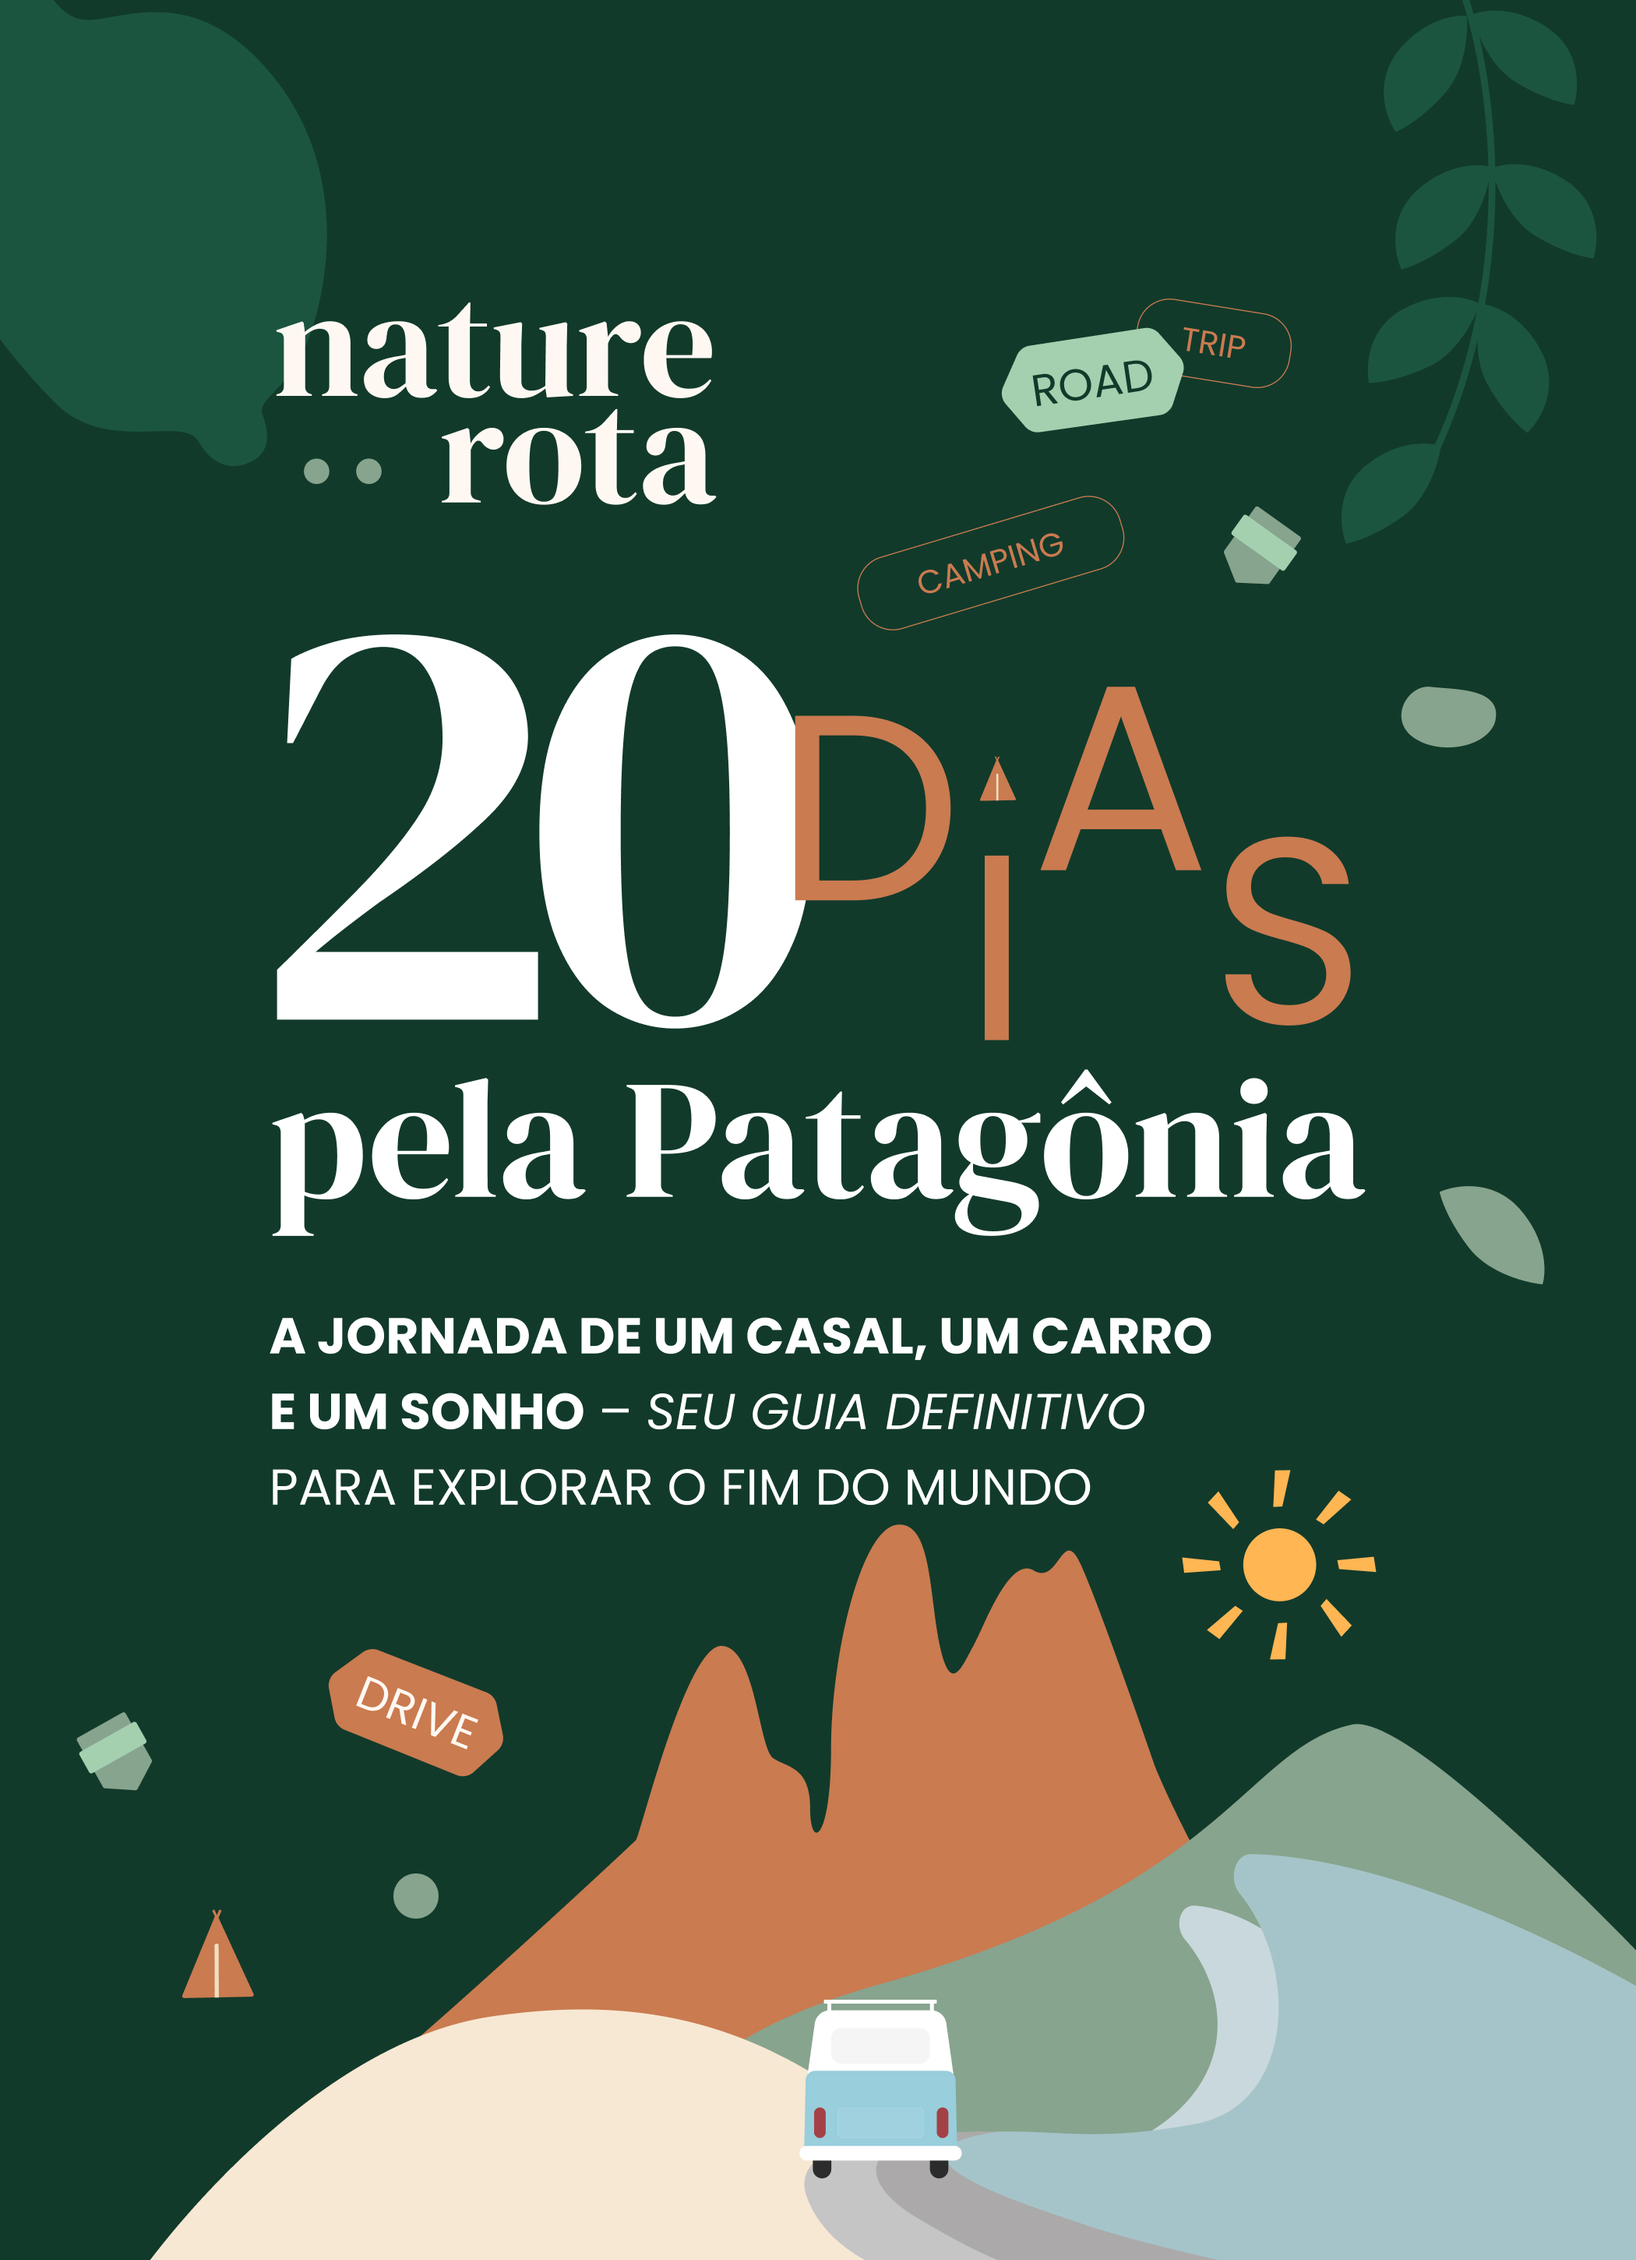
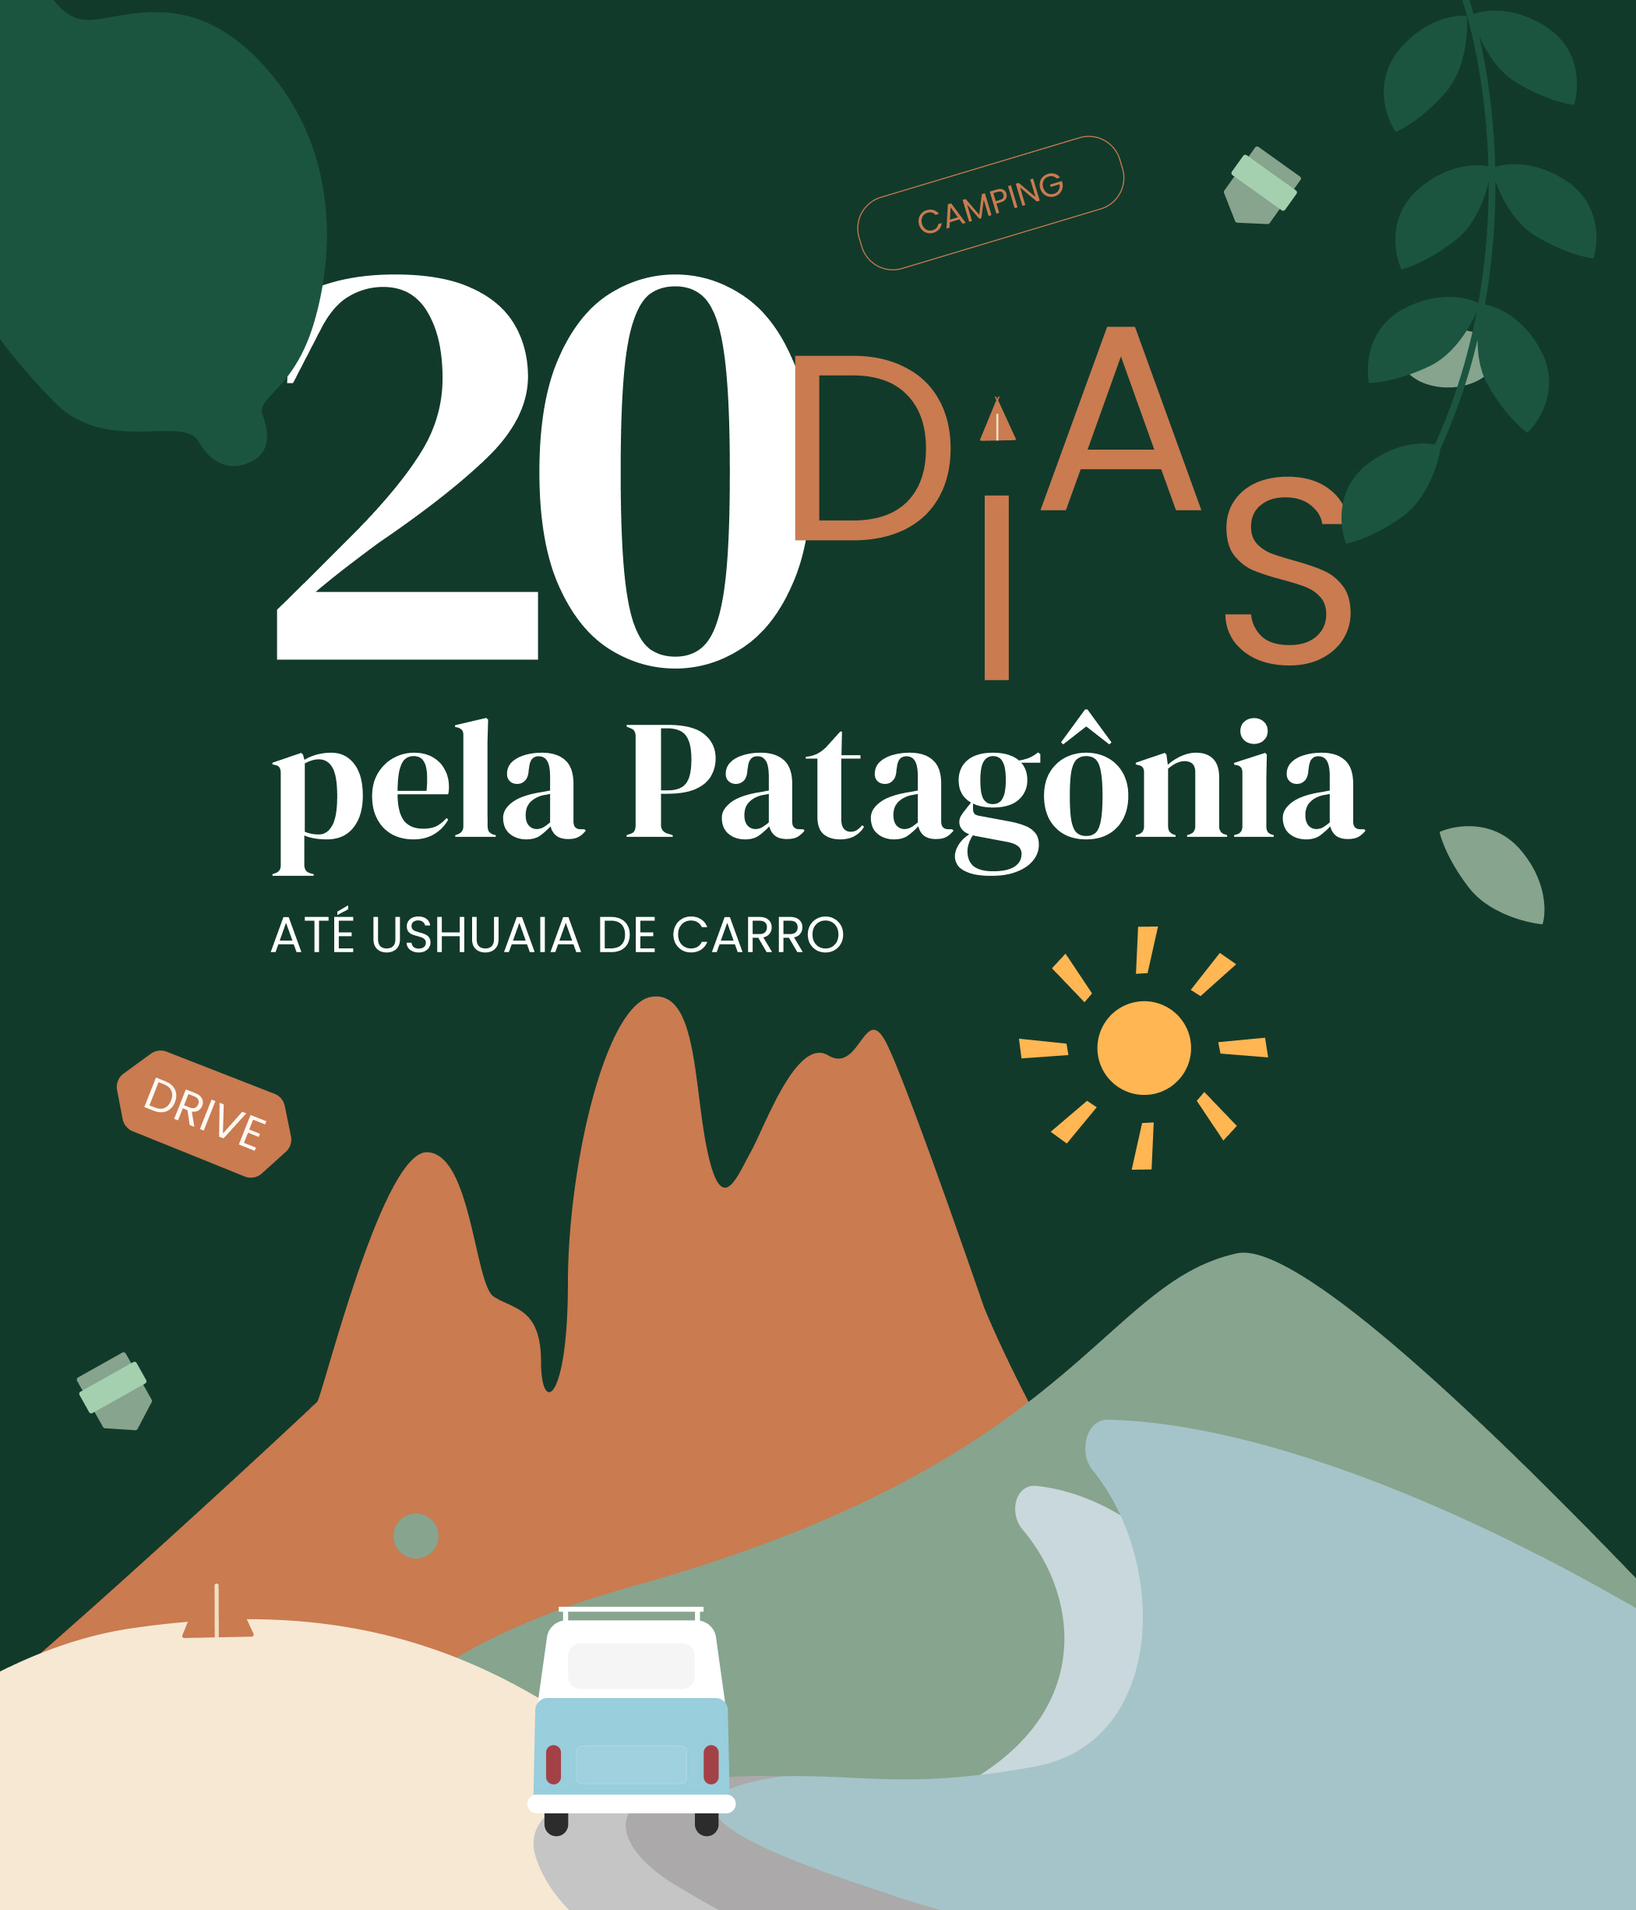
feat(carousel): adiciona novo componente de carrossel e atualiza imagens
- Implementa o componente CarouselDemo com slides de vídeos e imagens.
- Substitui o AppleHeroCarousel na seção de newsletter pelo novo carrossel.
- Atualiza e adiciona novas imagens na galeria de produtos, removendo algumas antigas.

Risco/rollback: reverter este commit para remover o novo carrossel e restaurar imagens anteriores. Testes: não executados.

diff --git a/src/components/ui/carousel.tsx b/src/components/ui/carousel.tsx
@@ -1,0 +1,226 @@
+"use client";
+
+import { IconArrowNarrowRight } from "@tabler/icons-react";
+import { useEffect, useId, useRef, useState } from "react";
+
+interface SlideData {
+  title: string;
+  button: string;
+  src: string;
+  href?: string;
+}
+
+interface SlideProps {
+  slide: SlideData;
+  index: number;
+  current: number;
+  handleSlideClick: (index: number) => void;
+}
+
+const Slide = ({ slide, index, current, handleSlideClick }: SlideProps) => {
+  const slideRef = useRef<HTMLLIElement>(null);
+
+  const xRef = useRef(0);
+  const yRef = useRef(0);
+  const frameRef = useRef<number>();
+
+  useEffect(() => {
+    const animate = () => {
+      if (!slideRef.current) return;
+
+      const x = xRef.current;
+      const y = yRef.current;
+
+      slideRef.current.style.setProperty("--x", `${x}px`);
+      slideRef.current.style.setProperty("--y", `${y}px`);
+
+      frameRef.current = requestAnimationFrame(animate);
+    };
+
+    frameRef.current = requestAnimationFrame(animate);
+
+    return () => {
+      if (frameRef.current) {
+        cancelAnimationFrame(frameRef.current);
+      }
+    };
+  }, []);
+
+  const handleMouseMove = (event: React.MouseEvent) => {
+    const el = slideRef.current;
+    if (!el) return;
+
+    const r = el.getBoundingClientRect();
+    xRef.current = event.clientX - (r.left + Math.floor(r.width / 2));
+    yRef.current = event.clientY - (r.top + Math.floor(r.height / 2));
+  };
+
+  const handleMouseLeave = () => {
+    xRef.current = 0;
+    yRef.current = 0;
+  };
+
+  const imageLoaded = (event: React.SyntheticEvent<HTMLImageElement>) => {
+    event.currentTarget.style.opacity = "1";
+  };
+
+  const { src, button, title } = slide;
+  const href = slide.href;
+
+  return (
+    <div className="perspective-distant transform-3d">
+      <li
+        ref={slideRef}
+        className="flex flex-1 flex-col items-center justify-center relative text-center text-white opacity-100 transition-all duration-300 ease-in-out w-[70vmin] h-[70vmin] mx-[4vmin] z-10 "
+        onClick={() => handleSlideClick(index)}
+        onMouseMove={handleMouseMove}
+        onMouseLeave={handleMouseLeave}
+        style={{
+          transform:
+            current !== index
+              ? "scale(0.98) rotateX(8deg)"
+              : "scale(1) rotateX(0deg)",
+          transition: "transform 0.5s cubic-bezier(0.4, 0, 0.2, 1)",
+          transformOrigin: "bottom",
+        }}
+      >
+        <div
+          className="absolute top-0 left-0 w-full h-full bg-[#1D1F2F] rounded-[1%] overflow-hidden transition-all duration-150 ease-out"
+          style={{
+            transform:
+              current === index
+                ? "translate3d(calc(var(--x) / 30), calc(var(--y) / 30), 0)"
+                : "none",
+          }}
+        >
+          <img
+            className="absolute inset-0 w-[120%] h-[120%] object-cover opacity-100 transition-opacity duration-600 ease-in-out"
+            style={{
+              opacity: current === index ? 1 : 0.5,
+            }}
+            alt={title}
+            src={src}
+            onLoad={imageLoaded}
+            loading="eager"
+            decoding="sync"
+          />
+          {current === index && (
+            <div className="absolute inset-0 bg-black/30 transition-all duration-1000" />
+          )}
+        </div>
+
+        <article
+          className={`relative p-[4vmin] transition-opacity duration-1000 ease-in-out ${
+            current === index ? "opacity-100 visible" : "opacity-0 invisible"
+          }`}
+        >
+          <h2 className="text-lg md:text-2xl lg:text-4xl font-semibold  relative">
+            {title}
+          </h2>
+          <div className="flex justify-center">
+            {href ? (
+              <a
+                href={href}
+                target="_blank"
+                rel="noopener noreferrer"
+                onClick={(e) => e.stopPropagation()}
+                className="mt-6 px-4 py-2 w-fit mx-auto sm:text-sm text-black bg-white h-12 border border-transparent text-xs flex justify-center items-center rounded-2xl hover:shadow-lg transition duration-200 shadow-[0px_2px_3px_-1px_rgba(0,0,0,0.1),0px_1px_0px_0px_rgba(25,28,33,0.02),0px_0px_0px_1px_rgba(25,28,33,0.08)]"
+              >
+                {button}
+              </a>
+            ) : (
+              <button
+                type="button"
+                onClick={(e) => e.stopPropagation()}
+                className="mt-6 px-4 py-2 w-fit mx-auto sm:text-sm text-black bg-white h-12 border border-transparent text-xs flex justify-center items-center rounded-2xl hover:shadow-lg transition duration-200 shadow-[0px_2px_3px_-1px_rgba(0,0,0,0.1),0px_1px_0px_0px_rgba(25,28,33,0.02),0px_0px_0px_1px_rgba(25,28,33,0.08)]"
+              >
+                {button}
+              </button>
+            )}
+          </div>
+        </article>
+      </li>
+    </div>
+  );
+};
+
+interface CarouselControlProps {
+  type: string;
+  title: string;
+  handleClick: () => void;
+}
+
+const CarouselControl = ({ type, title, handleClick }: CarouselControlProps) => {
+  return (
+    <button
+      className={`w-10 h-10 flex items-center mx-2 justify-center bg-neutral-200 dark:bg-neutral-800 border-3 border-transparent rounded-full focus:border-[#6D64F7] focus:outline-none hover:-translate-y-0.5 active:translate-y-0.5 transition duration-200 ${
+        type === "previous" ? "rotate-180" : ""
+      }`}
+      title={title}
+      onClick={handleClick}
+    >
+      <IconArrowNarrowRight className="text-neutral-600 dark:text-neutral-200" />
+    </button>
+  );
+};
+
+interface CarouselProps {
+  slides: SlideData[];
+}
+
+export default function Carousel({ slides }: CarouselProps) {
+  const [current, setCurrent] = useState(0);
+
+  const handlePreviousClick = () => {
+    const previous = current - 1;
+    setCurrent(previous < 0 ? slides.length - 1 : previous);
+  };
+
+  const handleNextClick = () => {
+    const next = current + 1;
+    setCurrent(next === slides.length ? 0 : next);
+  };
+
+  const handleSlideClick = (index: number) => {
+    if (current !== index) {
+      setCurrent(index);
+    }
+  };
+
+  const id = useId();
+
+  return (
+    <div
+      className="relative w-[70vmin] h-[70vmin] mx-auto"
+      aria-labelledby={`carousel-heading-${id}`}
+    >
+      <ul
+        className="absolute flex mx-[-4vmin] transition-transform duration-1000 ease-in-out"
+        style={{
+          transform: `translateX(-${current * (100 / slides.length)}%)`,
+        }}
+      >
+        {slides.map((slide, index) => (
+          <Slide
+            key={index}
+            slide={slide}
+            index={index}
+            current={current}
+            handleSlideClick={handleSlideClick}
+          />
+        ))}
+      </ul>
+
+      <div className="absolute flex justify-center w-full top-[calc(100%+1rem)]">
+        <CarouselControl
+          type="previous"
+          title="Go to previous slide"
+          handleClick={handlePreviousClick}
+        />
+
+        <CarouselControl type="next" title="Go to next slide" handleClick={handleNextClick} />
+      </div>
+    </div>
+  );
+}
+

diff --git a/src/components/carousel-demo.tsx b/src/components/carousel-demo.tsx
@@ -1,0 +1,33 @@
+"use client";
+
+import Carousel from "@/components/ui/carousel";
+
+export default function CarouselDemo() {
+  const slideData = [
+    {
+      title: "Brasil de Motorhome | Brazil Roadtrip",
+      button: "Assistir série",
+      src: "/Kombi_roadTrip_Brazil.png",
+      href: "https://youtube.com/playlist?list=PLFwipz-cJNpvymuengU-9T21nqk7M09rw&si=bxutv9-UoeAZHTHd",
+    },
+    {
+      title: "Viagem de carro até Ushuaia",
+      button: "Assistir série",
+      src: "/Ebook_ushuaia/Rectangle%2026-4.jpg",
+      href: "https://youtube.com/playlist?list=PLFwipz-cJNpuqJ_lQt1JG_1gxrLxv4VW2&si=c1NtbGlrFemDhNsN",
+    },
+    {
+      title: "Bonito MS – Guia Completo da Viagem com carro",
+      button: "Assistir série",
+      src: "/Ebook_bonito/Rectangle%2028-1.jpg",
+      href: "https://youtube.com/playlist?list=PLFwipz-cJNpveVPMtRRSGR4dwFVY3IHC-&si=vkUSKHa1MW7BVIy0",
+    },
+  ];
+
+  return (
+    <div className="relative overflow-visible w-full py-20">
+      <Carousel slides={slideData} />
+    </div>
+  );
+}
+
